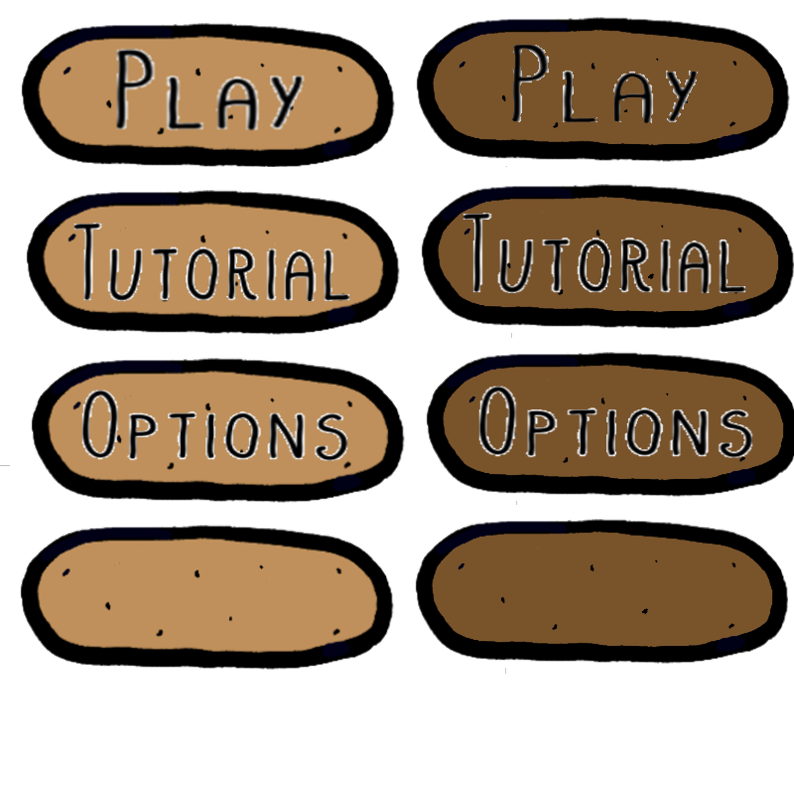
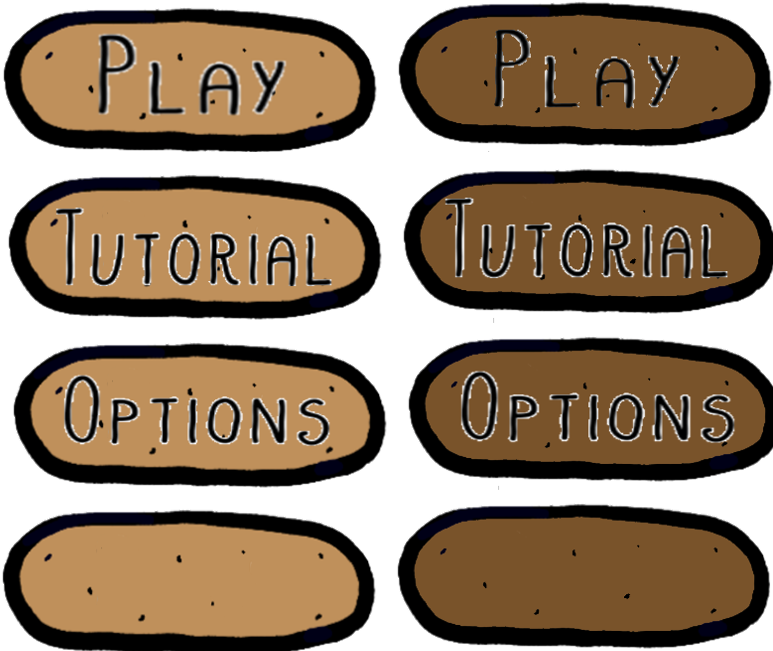
added boot menu buttons

diff --git a/src/scenes/BootScene.js b/src/scenes/BootScene.js
@@ -8,11 +8,21 @@ export default class BootScene extends Phaser.Scene {
   preload(){
     // Preload assets
     this.load.script('webfont', '//ajax.googleapis.com/ajax/libs/webfont/1/webfont.js');
-    this.load.audio('theme','./assets/sounds/InGame.wav')
-    this.load.spritesheet("buttons","./assets/spriteSheets/buttons.png", {
-      frameHeight: 100,
-      frameWidth: 200
+    this.load.audio('theme','./assets/sounds/InGame.wav');
+    this.load.spritesheet("playbuttons","./assets/fullSized/playButtons.png", {
+      frameHeight: 165,
+      frameWidth: 388
     });
+    this.load.spritesheet("tutorialbuttons","./assets/fullSized/TutButtons.png", {
+      frameHeight: 158,
+      frameWidth: 387
+    });
+    this.load.spritesheet("optionsbuttons","./assets/fullSized/OptionsButtons.png", {
+      frameHeight: 158,
+      frameWidth: 383
+    });
+    this.load.image("logo", "./assets/fullSized/Title Text.png")
+
     //Declare variables for center of the scene
     this.centerX = this.cameras.main.width/2;
     this.centerY=this.cameras.main.height/2;
@@ -35,58 +45,54 @@ export default class BootScene extends Phaser.Scene {
       }
     });
 
-    this.cameras.main.setBackgroundColor(0xb79268)
-
-    var text = 'Fried or Flight'
-    var text2 = 'Use the arrows to move, push crates, and avoid the cooks'
-    var b1 =this.add.sprite(150,100, 'buttons', 0).setInteractive();
+    this.cameras.main.setBackgroundColor(0xfffff)
+    this.add.sprite(400,75,'logo').setScale(0.7);
+    var b1 =this.add.sprite(150,300, 'playbuttons', 0).setInteractive();
     b1.on("pointerover", function(){
       this.setFrame(1);
-      sound.play('low');
+
     });
     b1.on("pointerout", function(){
       this.setFrame(0);
     });
     b1.on("pointerup", function(){
-      sound.play('high');
-      this.scene.start('Scene0');
+
+      this.scene.start('level1');
     }, this
   );
 
-  var b2 =this.add.sprite(400,100, 'buttons', 2).setInteractive();
+  var b2 =this.add.sprite(400,400, 'tutorialbuttons', 2).setInteractive();
   b2.on("pointerover", function(){
-    this.setFrame(3);
-    sound.play('low');
+    this.setFrame(1);
+
   });
   b2.on("pointerout", function(){
-    this.setFrame(2);
+    this.setFrame(0);
   });
   b2.on("pointerup", function(){
-    sound.play('high');
-    this.scene.start('Scene1');
+
+    this.scene.start('tutorial');
   }, this
 );
 
-var b3 =this.add.sprite(650,100, 'buttons', 4).setInteractive();
+var b3 =this.add.sprite(650,500, 'optionsbuttons', 4).setInteractive();
 b3.on("pointerover", function(){
-  this.setFrame(5);
-  sound.play('low');
+  this.setFrame(1);
+
 });
 b3.on("pointerout", function(){
-  this.setFrame(4);
+  this.setFrame(0);
 });
 b3.on("pointerup", function(){
-  sound.play('high');
-  this.scene.start('Scene2');
+
+  //this.scene.start('Scene2');
+  console.log("to be implemented")
 }, this
 );
-    var text3 = 'Press Space bar to start Level 1'
-    var text4 = 'Press Enter to start tutorial'
 
-    this.spellOutText(170,75,550,text,60,10, '#fff','Permanent Marker');
-    this.spellOutText(175,200,450,text2,20,30, '#fff','Anton');
-    this.spellOutText(250,300,550,text3,30,50, '#fff','Anton');
-    this.spellOutText(250,350,550,text4,30,50, '#fff','Anton');
+
+
+
   }
 
   spellOutText(x, y, width, text, fontSize, speed, fill, font){
